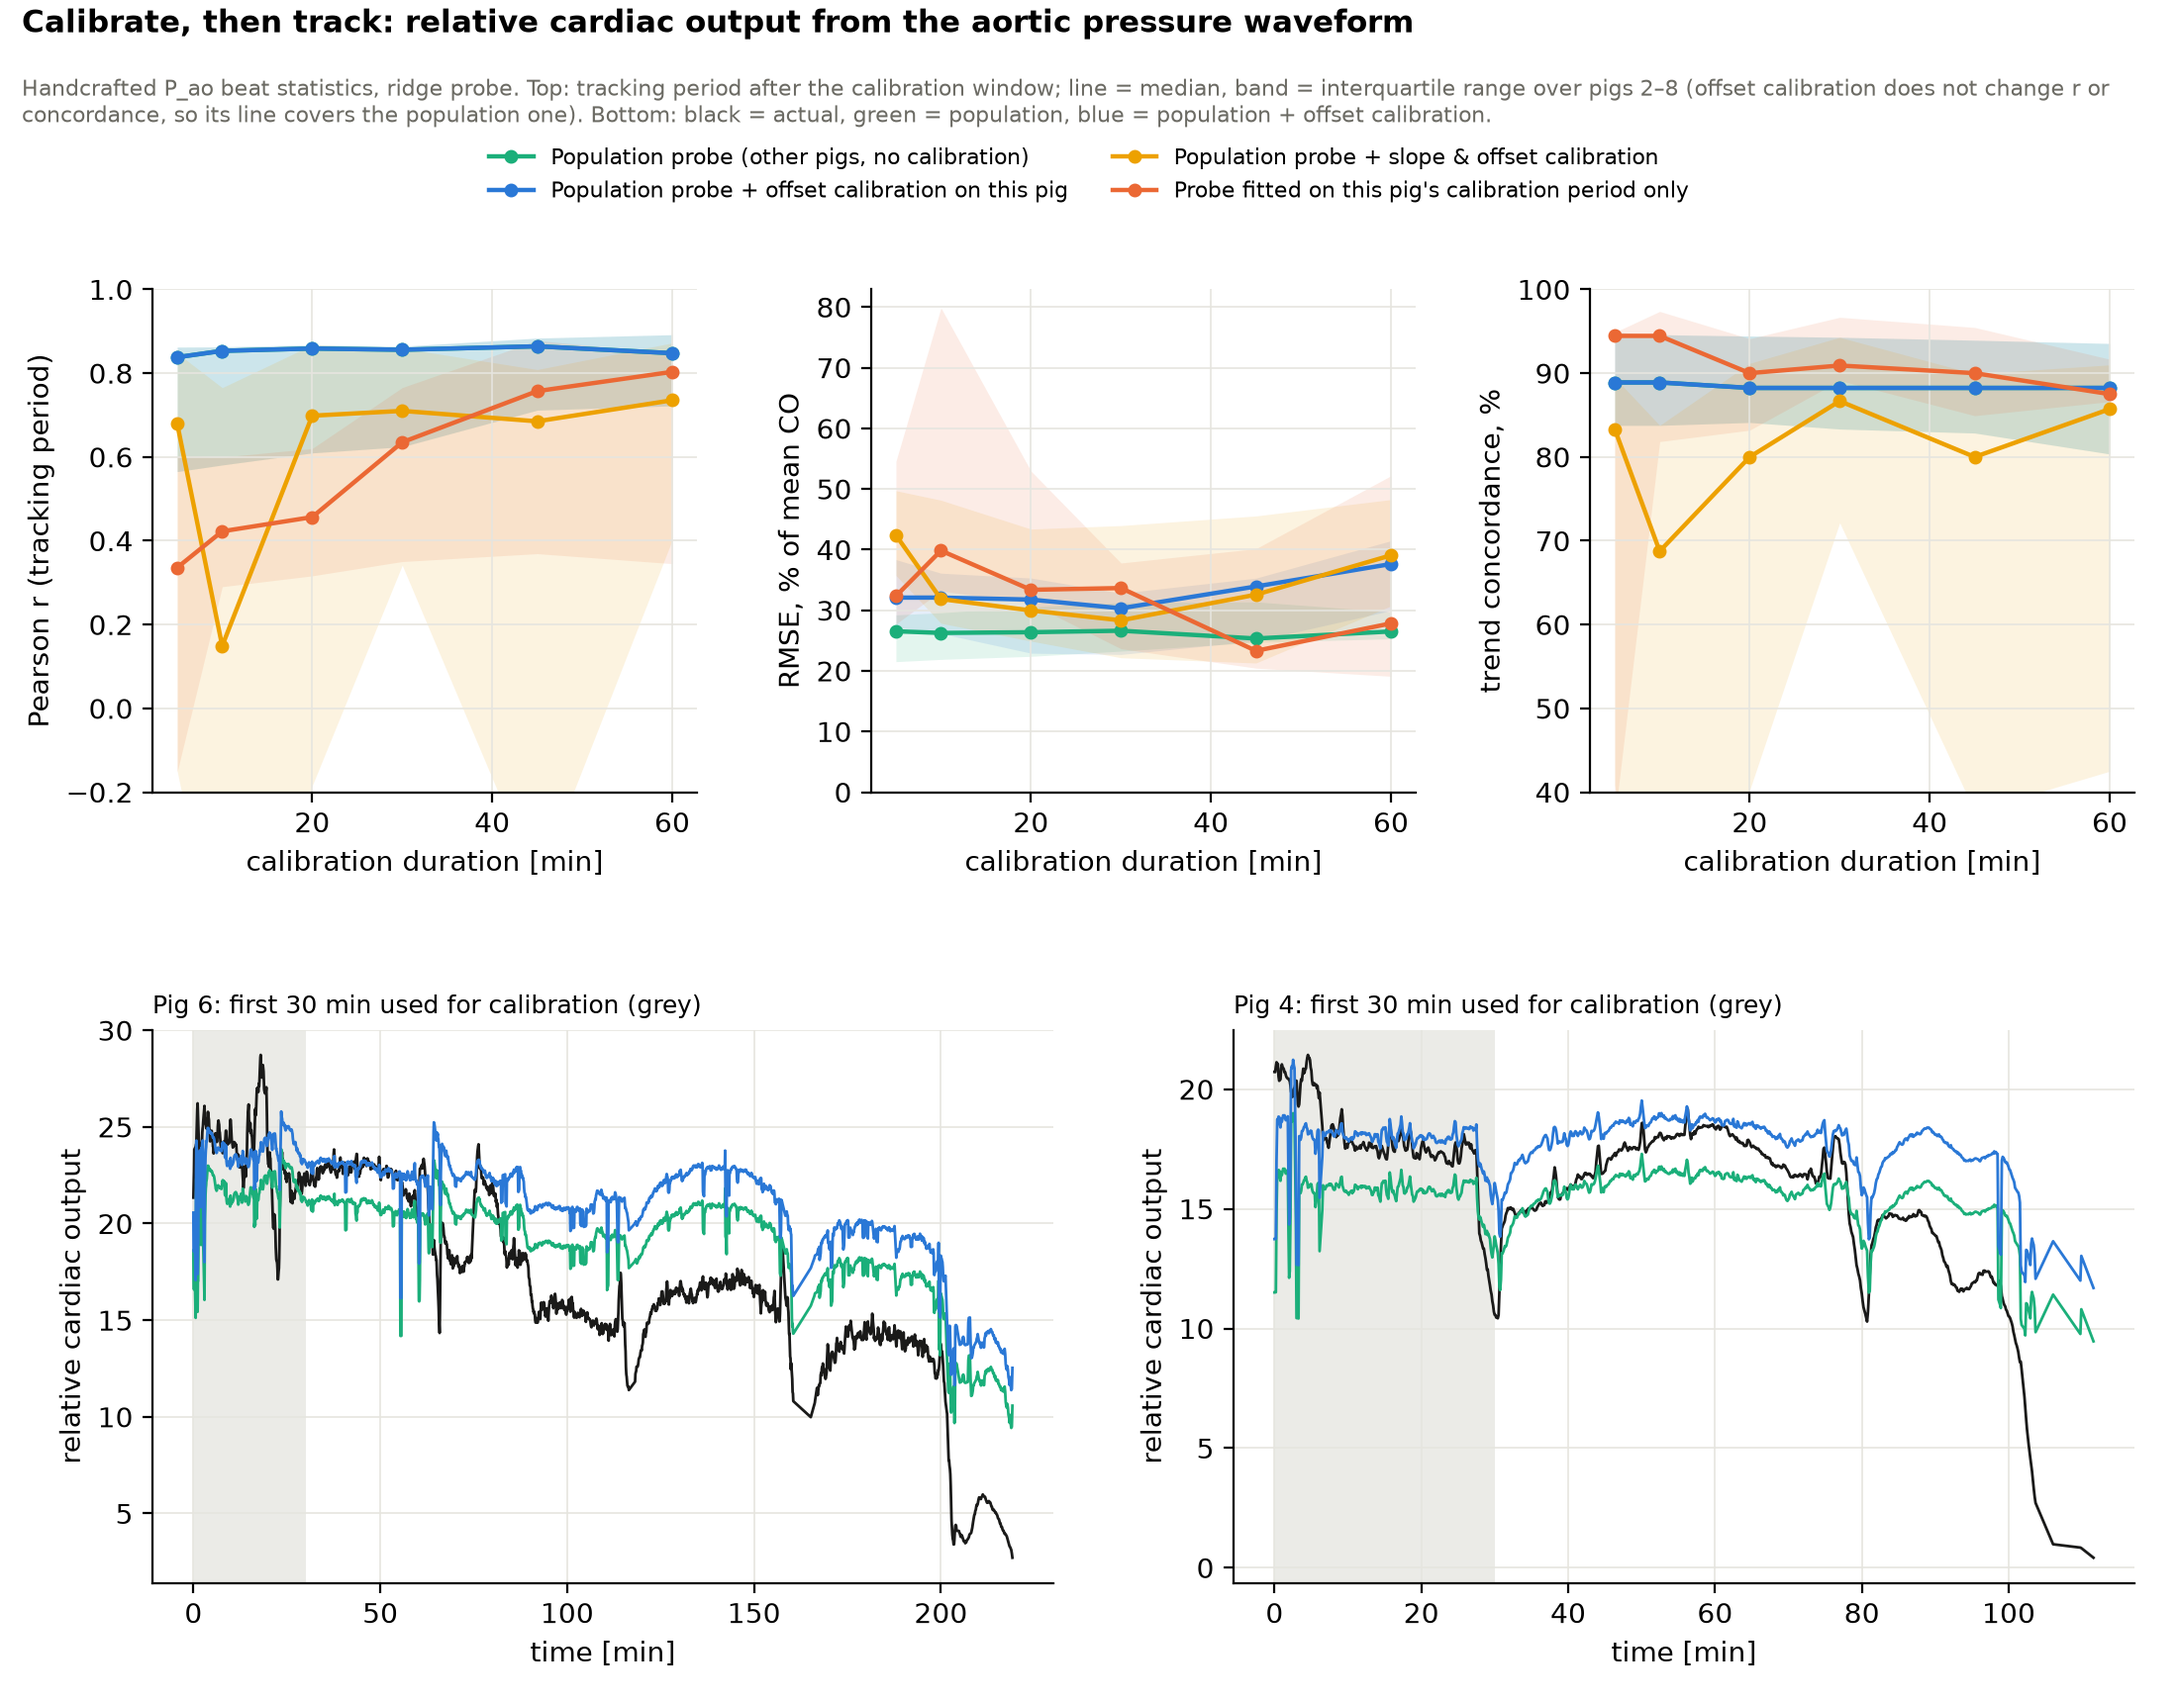
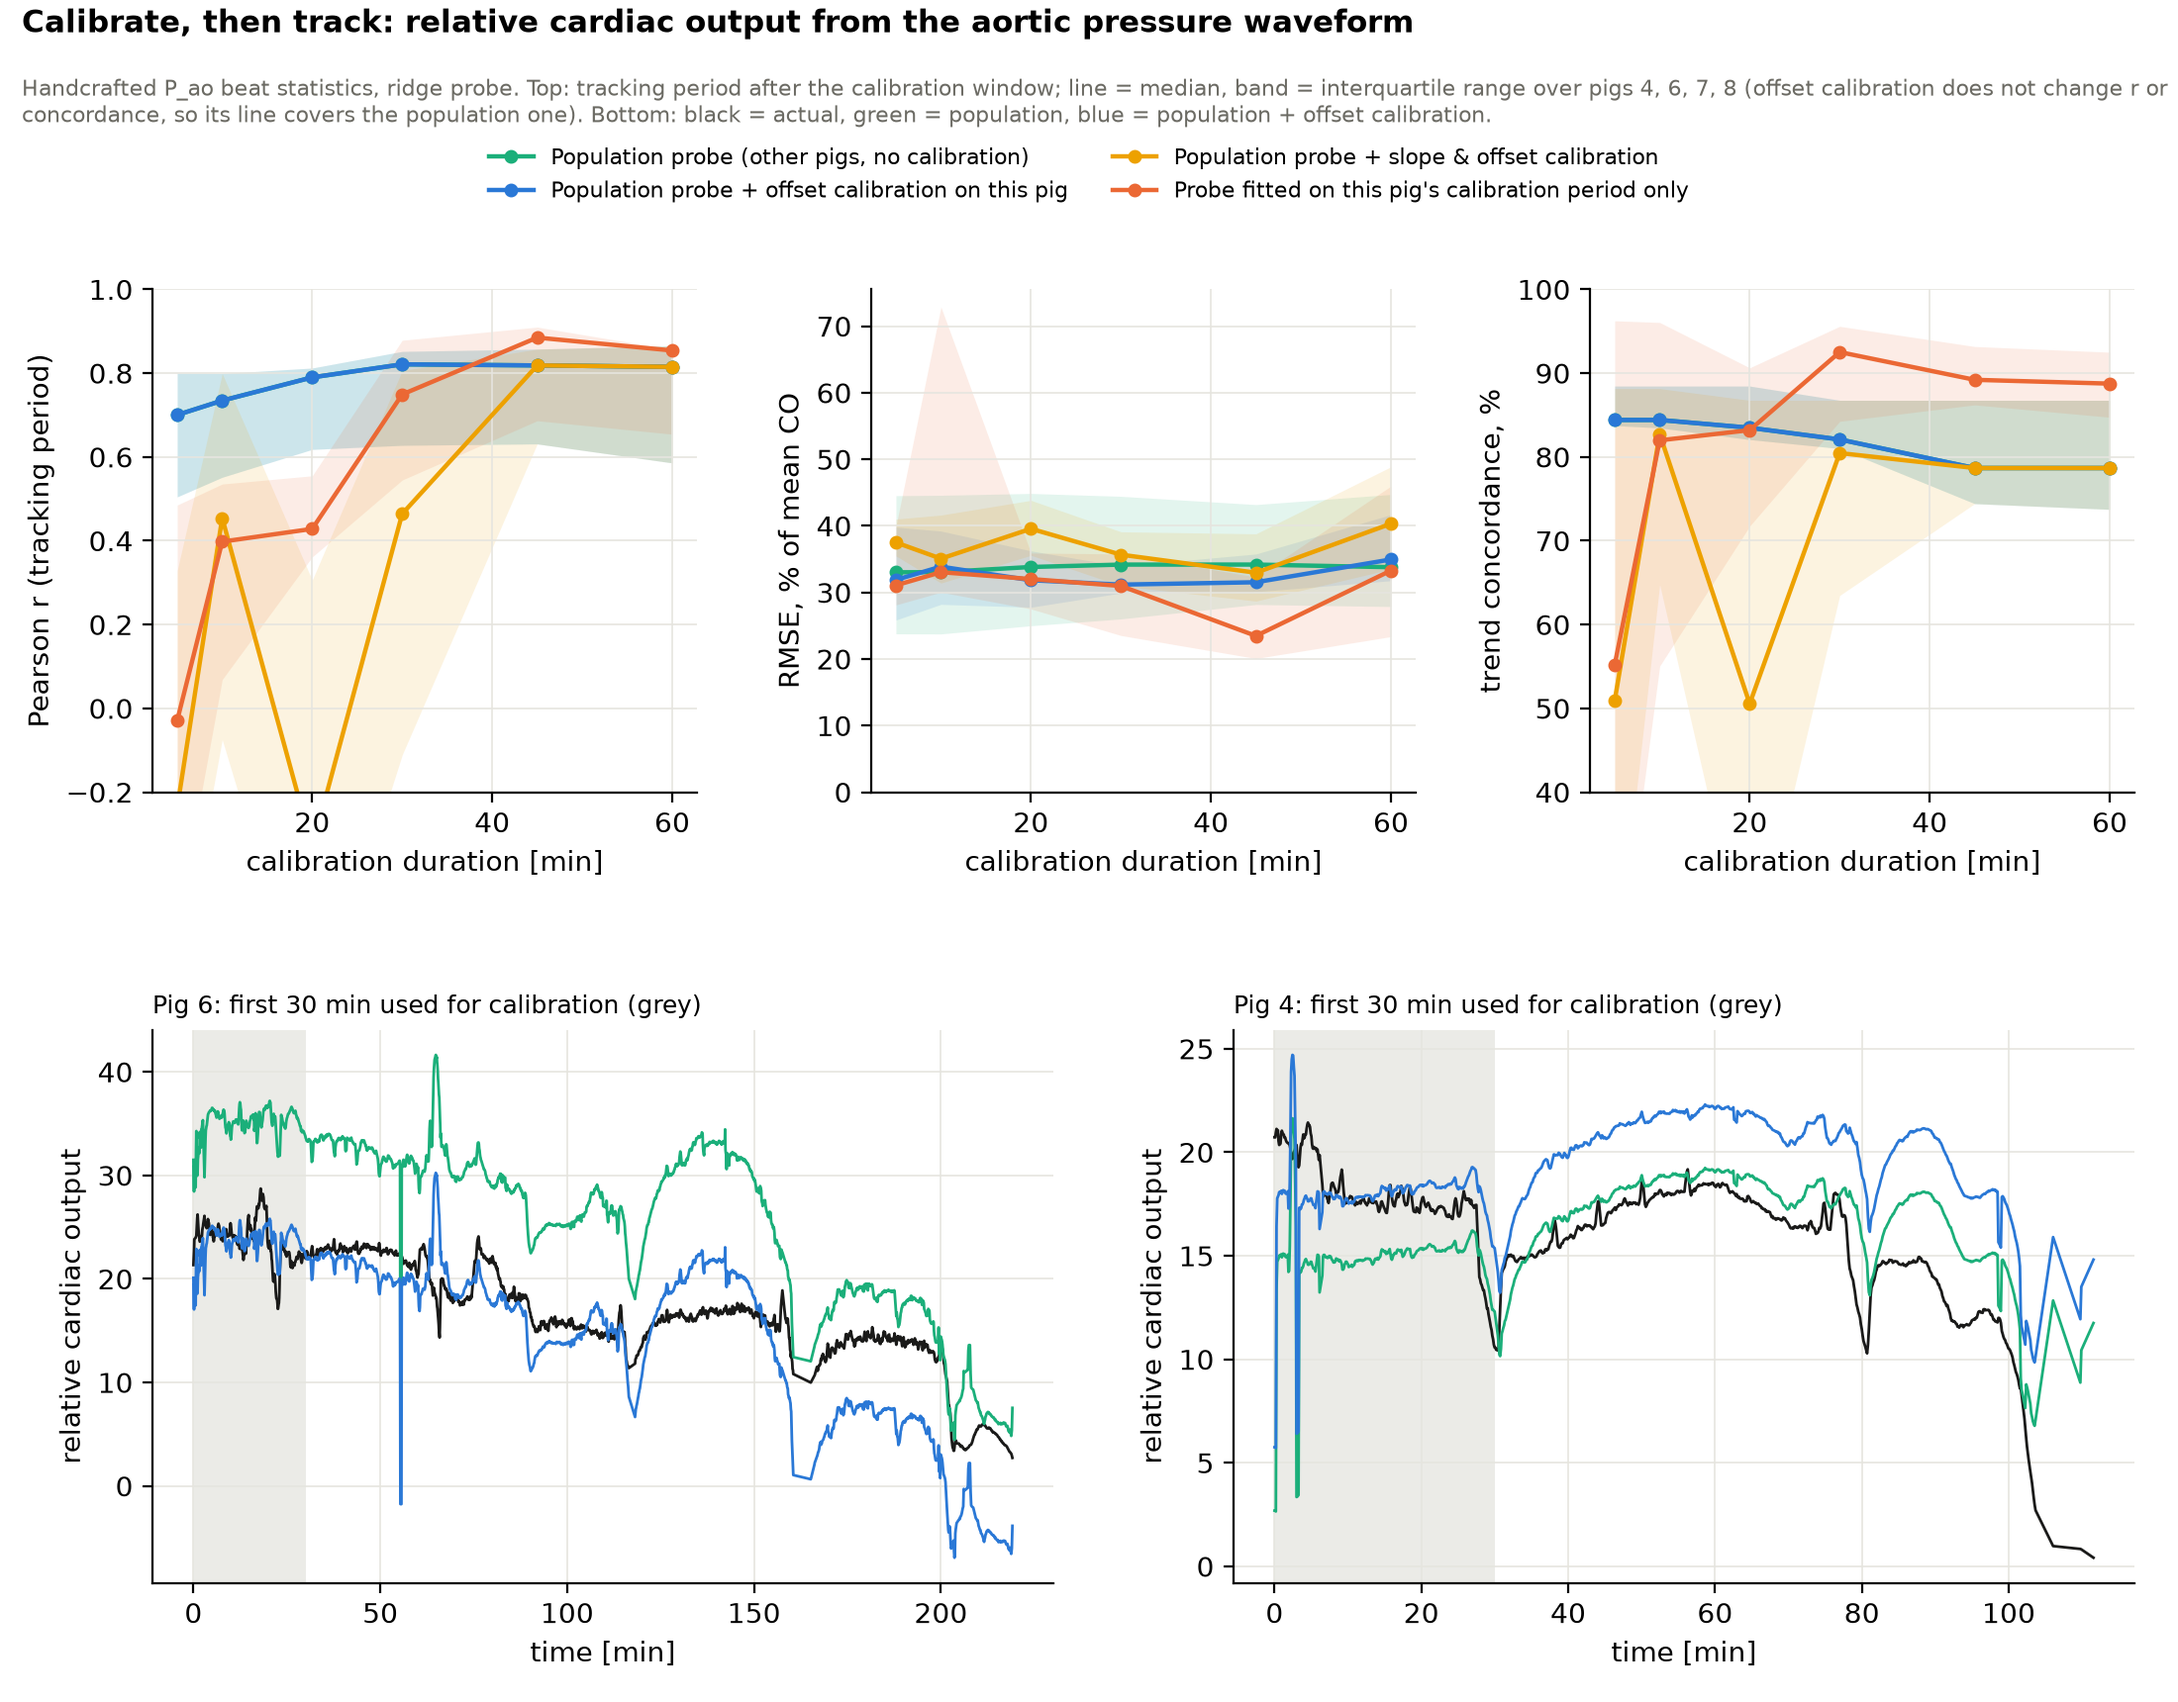
Corrected figures for the paper

diff --git a/src/model/calibrate.py b/src/model/calibrate.py
@@ -1,7 +1,7 @@
 """Calibrate-then-track: relative cardiac output from aortic pressure only, after calibrating on
 the first D minutes of the same pig (Docs/experiments.md, "Calibrate then track").
 
-For each pig with flow (2–8) and each calibration duration D:
+For each project pig (4, 6, 7, 8) and each calibration duration D:
   calibration  windows starting in [0, D) min (flow known)
   tracking     windows starting after D + one window length (flow only used for scoring)
 Representation: handcrafted beat statistics of P_ao (model/features.py) — the best method so far.
@@ -33,7 +33,7 @@ from sklearn.linear_model import LinearRegression, RidgeCV
 from sklearn.preprocessing import StandardScaler
 from torch.utils.data import DataLoader, ConcatDataset
 
-from preprocessing.config import CARDIAC, ROOT
+from preprocessing.config import CARDIAC, PIGS, ROOT
 
 from data.folds import make_fold
 from data.store import select_recordings
@@ -42,7 +42,6 @@ from model.benchmark import _impute
 from model.features import window_summaries
 from model.targets import window_targets
 
-PIGS = [2, 3, 4, 5, 6, 7, 8]
 DURATIONS_MIN = [5, 10, 20, 30, 45, 60]
 TARGET = "co_rel"
 BIN_MIN, EXCL_PCT = 5.0, 5.0
@@ -168,7 +167,7 @@ def figure(df: pd.DataFrame, examples: dict):
     fig.suptitle("Calibrate, then track: relative cardiac output from the aortic pressure waveform",
                  x=0.01, y=0.995, ha="left", fontsize=11, fontweight="bold")
     fig.text(0.01, 0.955, "Handcrafted P_ao beat statistics, ridge probe. Top: tracking period after the calibration "
-             "window; line = median, band = interquartile range over pigs 2–8 (offset calibration does not change r or\n"
+             "window; line = median, band = interquartile range over pigs 4, 6, 7, 8 (offset calibration does not change r or\n"
              "concordance, so its line covers the population one). Bottom: black = actual, green = population, "
              "blue = population + offset calibration.", fontsize=8, color=MUTED, va="top")
     FIG.parent.mkdir(parents=True, exist_ok=True)
@@ -182,7 +181,7 @@ if __name__ == "__main__":
     figure(df, examples)
     pd.set_option("display.width", 220)
     for col in ("r", "r2", "err_pct", "concordance"):
-        print(f"\n== {col}: median over pigs 2–8\n",
+        print(f"\n== {col}: median over pigs {PIGS}\n",
               df.groupby(["method", "D_min"])[col].median().unstack().round(2).to_string())
     print("\nmedian number of 5-min changes scored for concordance:", df["n_changes"].median())
     print(f"figure: {FIG.relative_to(ROOT)}")

diff --git a/src/model/encoder.py b/src/model/encoder.py
@@ -41,9 +41,12 @@ class BeatCNN(nn.Module):
     def __init__(self, n_points: int = 64, out_dim: int = 64):
         super().__init__()
         self.conv = nn.Sequential(
-            nn.Conv1d(1, 16, kernel_size=7, stride=1, padding=3), nn.GELU(),
-            nn.Conv1d(16, 32, kernel_size=5, stride=2, padding=2), nn.GELU(),
-            nn.Conv1d(32, 32, kernel_size=5, stride=2, padding=2), nn.GELU(),
+            nn.Conv1d(1, 16, kernel_size=7, stride=1, padding=3), 
+            nn.GELU(),
+            nn.Conv1d(16, 32, kernel_size=5, stride=2, padding=2), 
+            nn.GELU(),
+            nn.Conv1d(32, 32, kernel_size=5, stride=2, padding=2),
+            nn.GELU(),
             nn.Flatten(),
         )
         self.proj = nn.Linear(32 * (n_points // 4), out_dim)
@@ -63,8 +66,12 @@ class Encoder(nn.Module):
         self.pos = nn.Parameter(torch.randn(cfg.n_beats, D) * 0.02)                     # 12.4
         self.dur = nn.Linear(1, D)
         self.cls = nn.Parameter(torch.randn(D) * 0.02)                                  # 12.5
-        layer = nn.TransformerEncoderLayer(D, cfg.n_heads, cfg.d_ff, cfg.dropout,       # 12.6
-                                           activation="gelu", batch_first=True, norm_first=True)
+        layer = nn.TransformerEncoderLayer(D, cfg.n_heads, 
+                                           cfg.d_ff,
+                                             cfg.dropout,       # 12.6
+                                           activation="gelu", 
+                                           batch_first=True, 
+                                           norm_first=True)
         self.transformer = nn.TransformerEncoder(layer, cfg.n_layers, enable_nested_tensor=False)
         self.head = nn.Sequential(nn.LayerNorm(D), nn.Linear(D, cfg.d_embed))           # 12.7
 

diff --git a/src/preprocessing/config.py b/src/preprocessing/config.py
@@ -7,7 +7,15 @@ PROC_DIR = ROOT / "data" / "processed"
 
 FS = 250  # Hz, Cushway et al. PLOS ONE 2024
 
-ALL_PIGS = [1, 2, 3, 4, 5, 6, 7, 8]
+# Pigs used by the project (decision 2026-10-16, Docs/experiments.md "Data scope"): the four pigs
+# used in Cushway et al. 2024. The others are excluded for good, from preprocessing onwards:
+EXCLUDED_PIGS = {
+    1: "flows rectified (Q_ao and airway flow never negative)",
+    2: "paper: interrupted data stream; flow inconsistent with the other pigs",
+    3: "paper: interrupted data stream; flow / LV volume inconsistent with the other pigs",
+    5: "paper: airway flow; LV catheter failure over ~40 min",
+}
+PIGS = [4, 6, 7, 8]
 PAPER_ID = {4: 1, 6: 2, 7: 3, 8: 4}  # pigs used in the paper, with the paper's numbering
 
 # Spec symbol -> name of the field in the raw .mat struct

diff --git a/src/preprocessing/build.py b/src/preprocessing/build.py
@@ -35,7 +35,7 @@ import h5py
 import numpy as np
 
 from . import artifacts, beats, filtering, qc, resample
-from .config import ALL_PIGS, CARDIAC, FS, PAPER_ID, PROC_DIR, ROOT, SIGNALS, UNITS
+from .config import PIGS, CARDIAC, FS, PAPER_ID, PROC_DIR, ROOT, SIGNALS, UNITS
 from .io import load_raw
 from .plots import plot_beat_overlay, plot_resampled, plot_validity
 
@@ -148,5 +148,5 @@ def main(pig_ids: list[int]) -> None:
 
 if __name__ == "__main__":
     ap = argparse.ArgumentParser(description=__doc__, formatter_class=argparse.RawDescriptionHelpFormatter)
-    ap.add_argument("--pigs", type=int, nargs="+", default=ALL_PIGS)
+    ap.add_argument("--pigs", type=int, nargs="+", default=PIGS)
     main(ap.parse_args().pigs)

diff --git a/src/preprocessing/inventory.py b/src/preprocessing/inventory.py
@@ -13,7 +13,7 @@ import numpy as np
 import pandas as pd
 from scipy import signal
 
-from .config import ALL_PIGS, CARDIAC, FS, PAPER_ID, PROC_DIR, SIGNALS
+from .config import PIGS, CARDIAC, FS, PAPER_ID, PROC_DIR, SIGNALS
 from .io import load_raw
 
 LAG_SEARCH_S = 0.30  # search window around each P_ao upstroke for other channels' upstrokes
@@ -84,7 +84,7 @@ def inventory_row(pig_id: int) -> dict:
     return row
 
 
-def build_inventory(pig_ids: list[int] = ALL_PIGS) -> pd.DataFrame:
+def build_inventory(pig_ids: list[int] = PIGS) -> pd.DataFrame:
     return pd.DataFrame([inventory_row(p) for p in pig_ids]).set_index("pig")
 
 

diff --git a/Docs/experiments.md b/Docs/experiments.md
@@ -755,3 +755,24 @@ Interpretation for the thesis: a **population pulse-contour-like model of aortic
 tracks within-animal cardiac-output trends in unseen pigs** (r ≈ 0.85, concordance ≈ 88 %), with
 no calibration needed for trending; short calibration periods are counter-productive unless they
 contain haemodynamic variation.
+
+# Data scope (decision 2026-10-16): pigs 4, 6, 7, 8 only
+
+From now on the project uses only the four pigs of Cushway et al. 2024. Pigs 1, 2, 3, 5 are
+excluded for good, from preprocessing onwards (`preprocessing/config.py`: `PIGS`,
+`EXCLUDED_PIGS` with the reasons; raw `.mat` files kept on disk but unused). `pigs.h5` was rebuilt
+with the four pigs and `data.store.load_recordings()` defaults to them. All results above that use
+"all pigs" are historical.
+
+Calibrate-then-track rerun on the four pigs (population probe now from the 3 other pigs):
+
+| median r over pigs 4, 6, 7, 8 | D = 5 | 10 | 20 | 30 | 45 | 60 min |
+|---|---|---|---|---|---|---|
+| population (= population + offset) | 0.70 | 0.73 | 0.79 | 0.82 | 0.82 | 0.81 |
+| calibrated (probe fitted on the first D min) | −0.03 | 0.40 | 0.43 | 0.75 | **0.88** | 0.85 |
+| population + slope & offset | −0.24 | 0.45 | −0.33 | 0.46 | 0.82 | 0.81 |
+
+Trend concordance (population) 79–84 %; calibrated 89–93 % for D ≥ 30 min. Per pig, population r:
+pig 4 0.83, pig 6 0.86, pig 7 **0.13**, pig 8 0.78 — with only three training animals, pig 7 is
+not covered by the population model, while a per-pig probe calibrated on ≥ 45 min (including a
+recruitment manoeuvre) recovers r ≈ 0.85–0.88.
